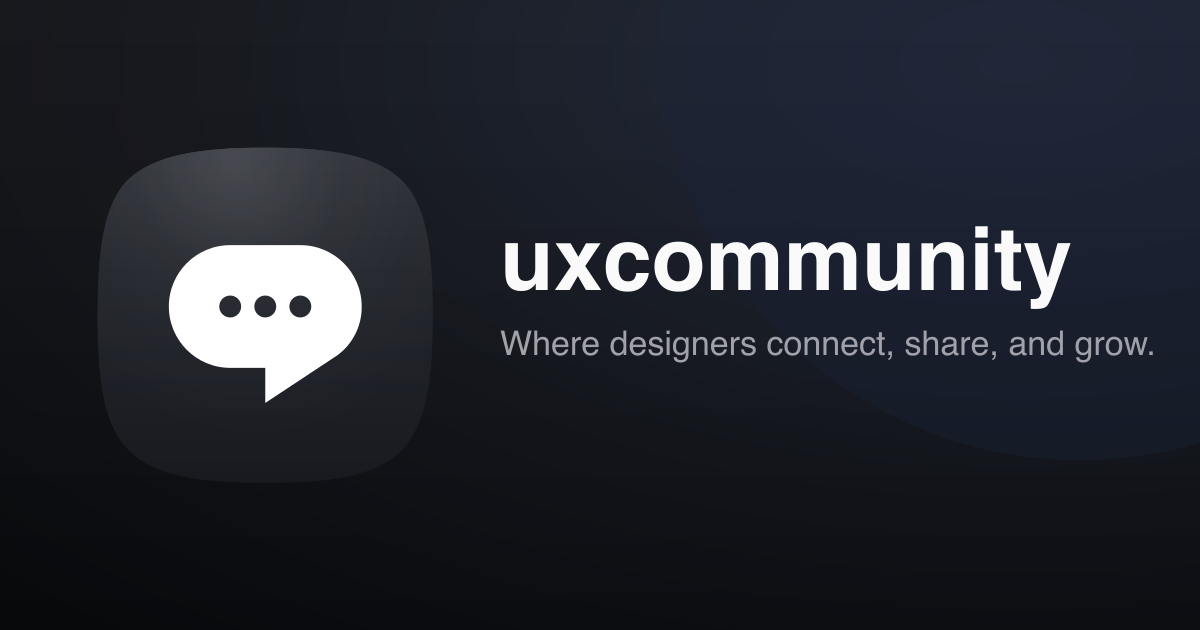
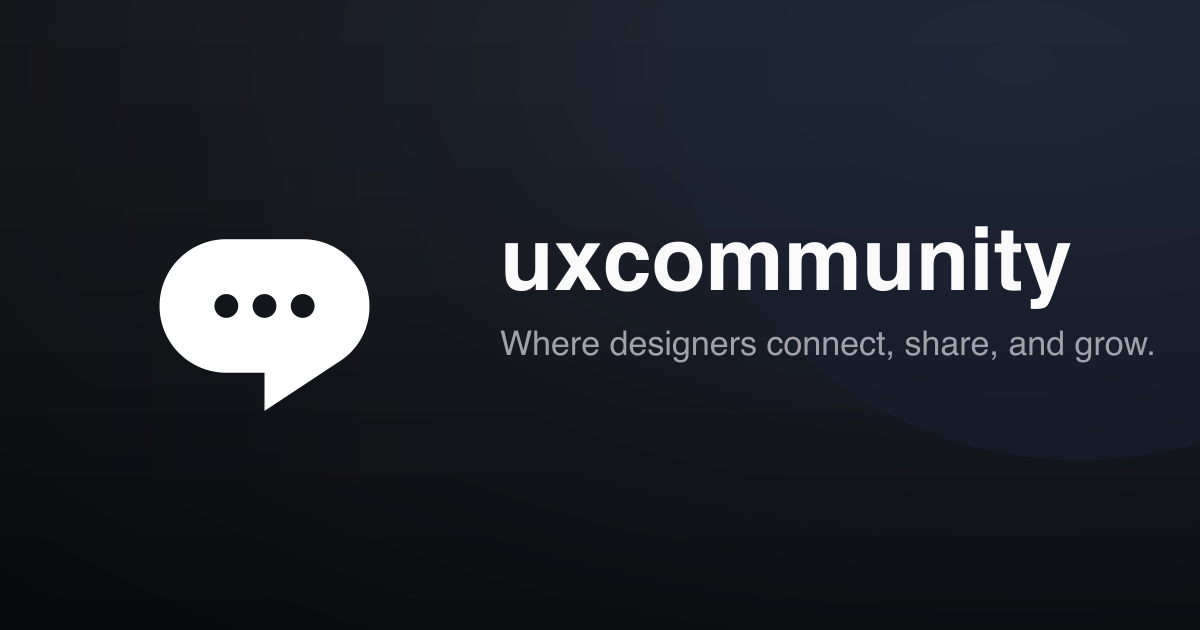
Render the brand mark bare in the app and dark-background assets
Drop the dark rounded-square tile from every in-product lockup and from the
assets that sit on the app's own dark background:

- web BrandLogo now draws the speech bubble alone and inherits currentColor
- mobile BrandLogo draws the bare bubble in the theme foreground colour
- og-image repaints the old tile region and places the bare mark back in
- Expo splash PNG/SVG (and the generated Android drawables) show the bare mark

Favicons, PWA icons and launcher icons keep their tile on purpose: those need
an opaque, maskable background to stay visible on OS chrome.

Changed region(s): [[0.0617, 0.2111, 0.3392, 0.6032], [0.2158, 0.573, 0.2775, 0.6635], [0.185, 0.4524, 0.2158, 0.5127]]

diff --git a/apps/web/components/ui/BrandLogo.tsx b/apps/web/components/ui/BrandLogo.tsx
@@ -9,8 +9,9 @@ interface BrandLogoProps {
 /**
  * UX Community's shared logo mark and wordmark.
  *
- * The mark is inline SVG so it stays crisp, works without a separate asset
- * request, and can be used consistently across the public and member areas.
+ * The mark is a bare inline SVG — no tile behind it — so it stays crisp, works
+ * without a separate asset request, and inherits `currentColor` to follow the
+ * surrounding text colour on every surface and theme.
  */
 export function BrandLogo({
   className = "",
@@ -25,54 +26,17 @@ export function BrandLogo({
     >
       <svg
         className={iconClassName}
-        width="256"
-        height="256"
-        viewBox="0 0 256 256"
+        width="24"
+        height="24"
+        viewBox="0 0 24 24"
         fill="none"
         role="img"
         aria-label="uxcommunity logo"
       >
-        <defs>
-          <linearGradient id="uxc-bg" x1="128" y1="0" x2="128" y2="256" gradientUnits="userSpaceOnUse">
-            <stop offset="0%" stopColor="#30323A" />
-            <stop offset="38%" stopColor="#24262D" />
-            <stop offset="100%" stopColor="#1D1F26" />
-          </linearGradient>
-
-          <radialGradient
-            id="uxc-gloss"
-            cx="0"
-            cy="0"
-            r="1"
-            gradientUnits="userSpaceOnUse"
-            gradientTransform="translate(105 15) rotate(70) scale(210 180)"
-          >
-            <stop offset="0%" stopColor="#FFFFFF" stopOpacity="0.12" />
-            <stop offset="45%" stopColor="#FFFFFF" stopOpacity="0.035" />
-            <stop offset="100%" stopColor="#FFFFFF" stopOpacity="0" />
-          </radialGradient>
-
-          <linearGradient id="uxc-depth" x1="128" y1="110" x2="128" y2="256" gradientUnits="userSpaceOnUse">
-            <stop offset="0%" stopColor="#000000" stopOpacity="0" />
-            <stop offset="100%" stopColor="#000000" stopOpacity="0.16" />
-          </linearGradient>
-
-          <clipPath id="uxc-clip">
-            <path d="M128 2 C77 2 44 8 25 26 C7 44 2 77 2 128 C2 179 7 212 26 230 C45 249 78 254 128 254 C178 254 211 249 230 230 C249 211 254 178 254 128 C254 77 249 44 230 26 C211 8 178 2 128 2Z" />
-          </clipPath>
-        </defs>
-
-        <g clipPath="url(#uxc-clip)">
-          <rect width="256" height="256" fill="url(#uxc-bg)" />
-          <rect width="256" height="256" fill="url(#uxc-gloss)" />
-          <rect width="256" height="256" fill="url(#uxc-depth)" />
-        </g>
-
-        <g transform="translate(49 49) scale(6.6)" fill="#FFFFFF">
-          <path
-            d="M16 4H8a7 7 0 0 0 0 14h4v4l8.16-5.39A6.78 6.78 0 0 0 23 11a7 7 0 0 0-7-7 M8 12.25A1.25 1.25 0 1 1 9.25 11 1.25 1.25 0 0 1 8 12.25 m4 0A1.25 1.25 0 1 1 13.25 11 1.25 1.25 0 0 1 12 12.25 m4 0A1.25 1.25 0 1 1 17.25 11 1.25 1.25 0 0 1 16 12.25"
-          />
-        </g>
+        <path
+          fill="currentColor"
+          d="M16 4H8a7 7 0 000 14h4v4l8.16-5.39A6.78 6.78 0 0023 11a7 7 0 00-7-7zm-8 8.25A1.25 1.25 0 119.25 11 1.25 1.25 0 018 12.25zm4 0A1.25 1.25 0 1113.25 11 1.25 1.25 0 0112 12.25zm4 0A1.25 1.25 0 1117.25 11 1.25 1.25 0 0116 12.25z"
+        />
       </svg>
       {!markOnly && <span className={wordmarkClassName}>uxcommunity</span>}
     </span>

diff --git a/expo-app-standalone 3/components/BrandLogo.tsx b/expo-app-standalone 3/components/BrandLogo.tsx
@@ -1,64 +1,25 @@
 import React from 'react';
-import Svg, {
-  ClipPath,
-  Defs,
-  G,
-  LinearGradient,
-  Path,
-  RadialGradient,
-  Rect,
-  Stop,
-} from 'react-native-svg';
+import Svg, { Path } from 'react-native-svg';
+import { useColors } from '@/hooks/useColors';
 
 interface BrandLogoProps {
   size?: number;
 }
 
+/**
+ * The brand speech-bubble mark, drawn bare — no tile behind it — in the
+ * theme's foreground colour so it sits flush with the wordmark on every
+ * screen.
+ */
 export function BrandLogo({ size = 56 }: BrandLogoProps) {
+  const colors = useColors();
+
   return (
-    <Svg width={size} height={size} viewBox="0 0 256 256" fill="none">
-      <Defs>
-        <LinearGradient id="uxc-bg" x1="128" y1="0" x2="128" y2="256" gradientUnits="userSpaceOnUse">
-          <Stop offset="0%" stopColor="#30323A" />
-          <Stop offset="38%" stopColor="#24262D" />
-          <Stop offset="100%" stopColor="#1D1F26" />
-        </LinearGradient>
-
-        <RadialGradient
-          id="uxc-gloss"
-          cx="0"
-          cy="0"
-          r="1"
-          gradientUnits="userSpaceOnUse"
-          gradientTransform="translate(105 15) rotate(70) scale(210 180)"
-        >
-          <Stop offset="0%" stopColor="#FFFFFF" stopOpacity={0.12} />
-          <Stop offset="45%" stopColor="#FFFFFF" stopOpacity={0.035} />
-          <Stop offset="100%" stopColor="#FFFFFF" stopOpacity={0} />
-        </RadialGradient>
-
-        <LinearGradient id="uxc-depth" x1="128" y1="110" x2="128" y2="256" gradientUnits="userSpaceOnUse">
-          <Stop offset="0%" stopColor="#000000" stopOpacity={0} />
-          <Stop offset="100%" stopColor="#000000" stopOpacity={0.16} />
-        </LinearGradient>
-
-        <ClipPath id="uxc-clip">
-          <Path d="M128 2 C77 2 44 8 25 26 C7 44 2 77 2 128 C2 179 7 212 26 230 C45 249 78 254 128 254 C178 254 211 249 230 230 C249 211 254 178 254 128 C254 77 249 44 230 26 C211 8 178 2 128 2Z" />
-        </ClipPath>
-      </Defs>
-
-      <G clipPath="url(#uxc-clip)">
-        <Rect width="256" height="256" fill="url(#uxc-bg)" />
-        <Rect width="256" height="256" fill="url(#uxc-gloss)" />
-        <Rect width="256" height="256" fill="url(#uxc-depth)" />
-      </G>
-
-      <G transform="translate(49 49) scale(6.6)">
-        <Path
-          d="M16 4H8a7 7 0 0 0 0 14h4v4l8.16-5.39A6.78 6.78 0 0 0 23 11a7 7 0 0 0-7-7 M8 12.25A1.25 1.25 0 1 1 9.25 11 1.25 1.25 0 0 1 8 12.25 m4 0A1.25 1.25 0 1 1 13.25 11 1.25 1.25 0 0 1 12 12.25 m4 0A1.25 1.25 0 1 1 17.25 11 1.25 1.25 0 0 1 16 12.25"
-          fill="#FFFFFF"
-        />
-      </G>
+    <Svg width={size} height={size} viewBox="0 0 24 24" fill="none">
+      <Path
+        d="M16 4H8a7 7 0 000 14h4v4l8.16-5.39A6.78 6.78 0 0023 11a7 7 0 00-7-7zm-8 8.25A1.25 1.25 0 119.25 11 1.25 1.25 0 018 12.25zm4 0A1.25 1.25 0 1113.25 11 1.25 1.25 0 0112 12.25zm4 0A1.25 1.25 0 1117.25 11 1.25 1.25 0 0116 12.25z"
+        fill={colors.foreground}
+      />
     </Svg>
   );
 }
